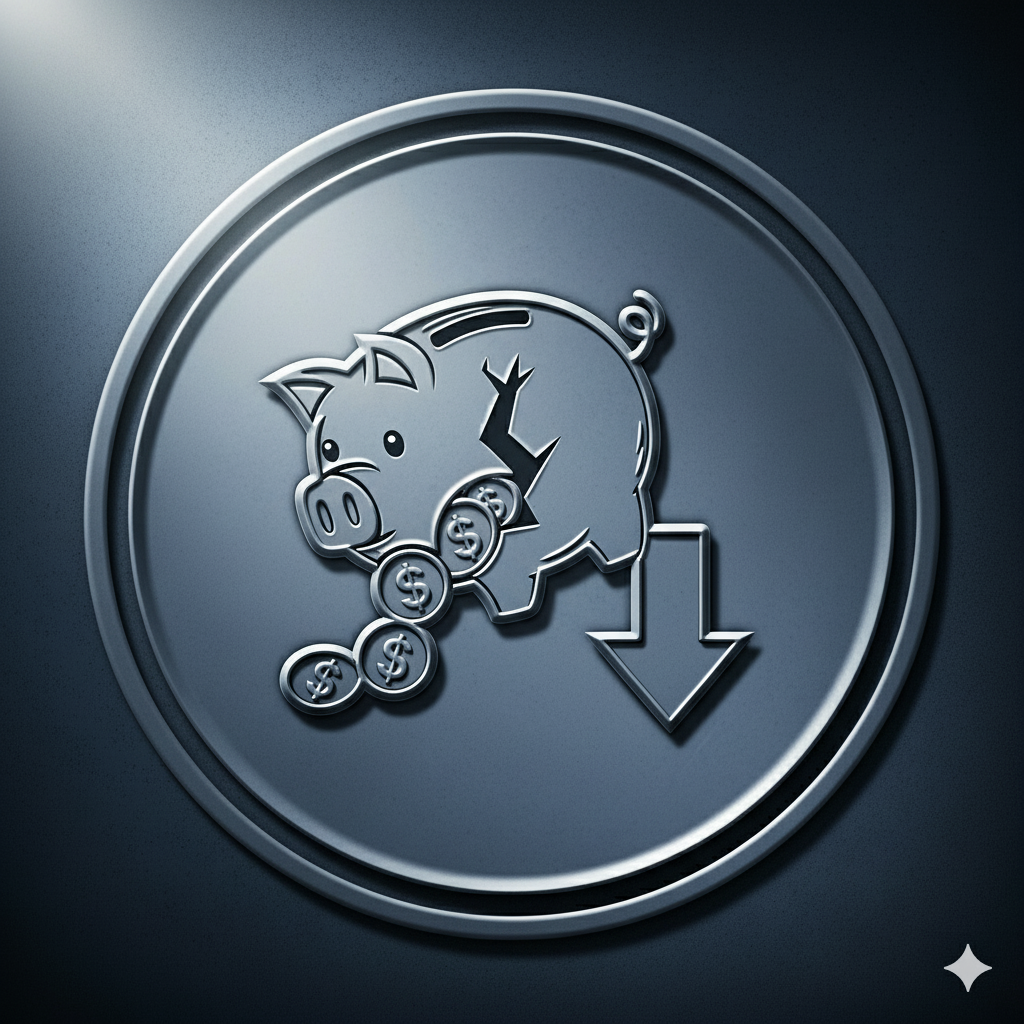
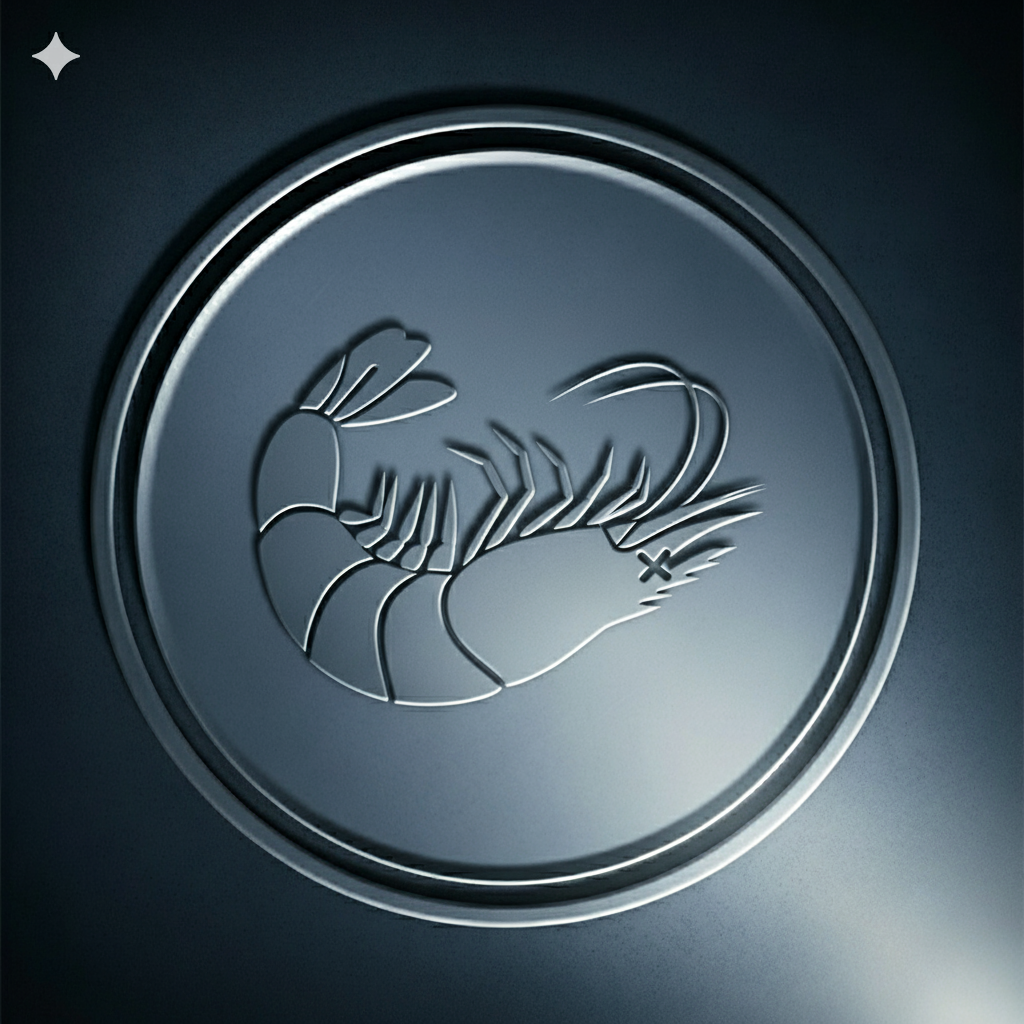
Add more images for achievements

diff --git a/web/pages/[username]/index.tsx b/web/pages/[username]/index.tsx
@@ -908,31 +908,31 @@ function AchievementsSection(props: { userId: string }) {
 
   const bucketOf = (rank: number | null) => {
     if (rank == null) return 'All Users'
-    if (rank <= 50) return 'Top 50'
-    if (rank <= 200) return 'Top 200'
-    if (rank <= 1000) return 'Top 1000'
-    if (rank <= 5000) return 'Top 5000'
-    if (rank <= 20000) return 'Top 20,000'
+    if (rank <= 50) return 'Top 50 Users'
+    if (rank <= 200) return 'Top 200 Users'
+    if (rank <= 1000) return 'Top 1000 Users'
+    if (rank <= 5000) return 'Top 5000 Users'
+    if (rank <= 20000) return 'Top 20,000 Users'
     return 'All Users'
   }
 
   const bucketOrder = [
-    'Top 50',
-    'Top 200',
-    'Top 1000',
-    'Top 5000',
-    'Top 20,000',
+    'Top 50 Users',
+    'Top 200 Users',
+    'Top 1000 Users',
+    'Top 5000 Users',
+    'Top 20,000 Users',
     'All Users',
   ] as const
   const byBucket: Record<
     (typeof bucketOrder)[number],
     (typeof ACHS)[number][]
   > = {
-    'Top 50': [],
-    'Top 200': [],
-    'Top 1000': [],
-    'Top 5000': [],
-    'Top 20,000': [],
+    'Top 50 Users': [],
+    'Top 200 Users': [],
+    'Top 1000 Users': [],
+    'Top 5000 Users': [],
+    'Top 20,000 Users': [],
     'All Users': [],
   }
 
@@ -971,12 +971,27 @@ function AchievementsSection(props: { userId: string }) {
                   percentile={a.percentile}
                   imageSrc={(() => {
                     const IMAGE_BY_ID: Record<string, string> = {
+                      accountAgeYears:
+                        '/achievement-badges/accountAgeYears.png',
+                      charityDonatedMana:
+                        '/achievement-badges/charityDonatedMana.png',
+                      creatorTraders: '/achievement-badges/creatorTraders.png',
                       highestLoanMana:
                         '/achievement-badges/highestLoanMana.png',
                       highestNetworthMana:
                         '/achievement-badges/highestNetworthMana.png',
+                      largestUnprofitableTradeValue:
+                        '/achievement-badges/largestUnprofitableTradeValue.png',
+                      modTicketsResolved:
+                        '/achievement-badges/modTicketsResolved.png',
                       numberOfComments:
                         '/achievement-badges/numberOfComments.png',
+                      seasonsMasters: '/achievement-badges/seasonsMasters.png',
+                      seasonsPlatinumOrHigher:
+                        '/achievement-badges/seasonsPlatinumOrHigher.png',
+                      totalReferrals: '/achievement-badges/totalReferrals.png',
+                      totalReferredProfitMana:
+                        '/achievement-badges/totalReferredProfitMana.png',
                       totalVolumeMana:
                         '/achievement-badges/totalVolumeMana.png',
                       unprofitableMarketsCount:
@@ -1005,11 +1020,11 @@ function AchievementBadgeCard(props: {
   rank: number | null
   percentile: number | null
   bucket:
-    | 'Top 50'
-    | 'Top 200'
-    | 'Top 1000'
-    | 'Top 5000'
-    | 'Top 20,000'
+    | 'Top 50 Users'
+    | 'Top 200 Users'
+    | 'Top 1000 Users'
+    | 'Top 5000 Users'
+    | 'Top 20,000 Users'
     | 'All Users'
   imageSrc?: string
 }) {
@@ -1017,11 +1032,11 @@ function AchievementBadgeCard(props: {
     props
 
   const bucketStyle: Record<typeof props.bucket, string> = {
-    'Top 50': 'from-fuchsia-500 to-indigo-500',
-    'Top 200': 'from-indigo-500 to-sky-500',
-    'Top 1000': 'from-sky-500 to-teal-500',
-    'Top 5000': 'from-emerald-500 to-lime-500',
-    'Top 20,000': 'from-slate-500 to-zinc-500',
+    'Top 50 Users': 'from-fuchsia-500 to-indigo-500',
+    'Top 200 Users': 'from-indigo-500 to-sky-500',
+    'Top 1000 Users': 'from-sky-500 to-teal-500',
+    'Top 5000 Users': 'from-emerald-500 to-lime-500',
+    'Top 20,000 Users': 'from-slate-500 to-zinc-500',
     'All Users': 'from-zinc-400 to-zinc-600',
   }
 
@@ -1066,7 +1081,9 @@ function AchievementBadgeCard(props: {
               <div className="text-ink-600 my-1 text-sm">
                 {percentile != null
                   ? `In the top ${(() => {
-                      const s = Number(percentile.toFixed(2)).toString()
+                      const s = Number(
+                        Math.max(percentile, 0.01).toFixed(2)
+                      ).toString()
                       return s
                     })()}% of all users`
                   : 'N/A'}
